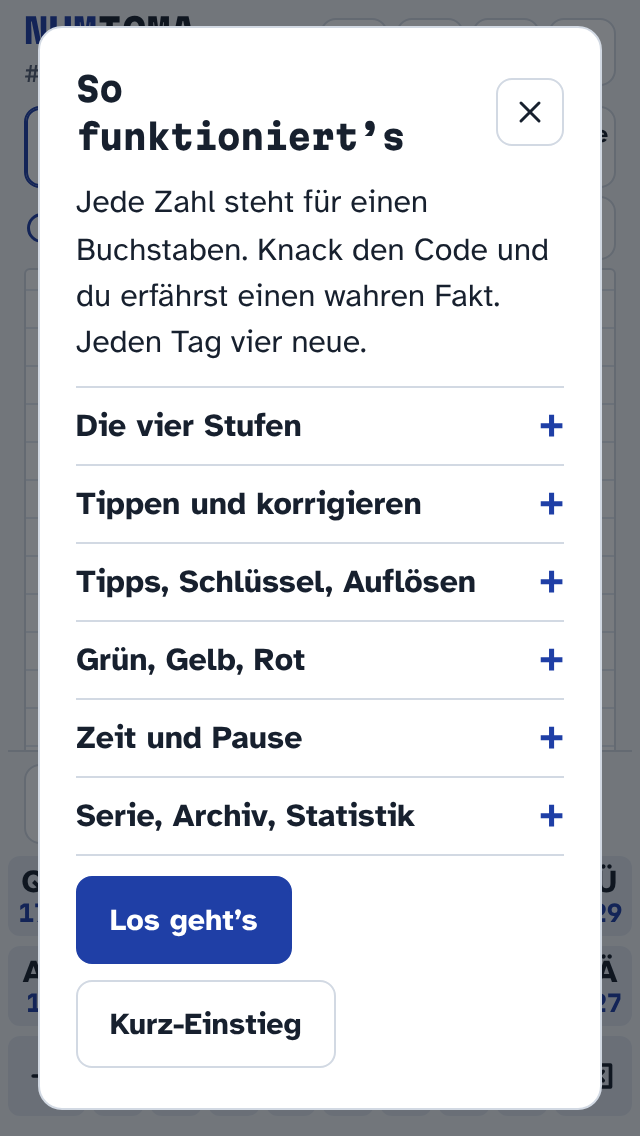
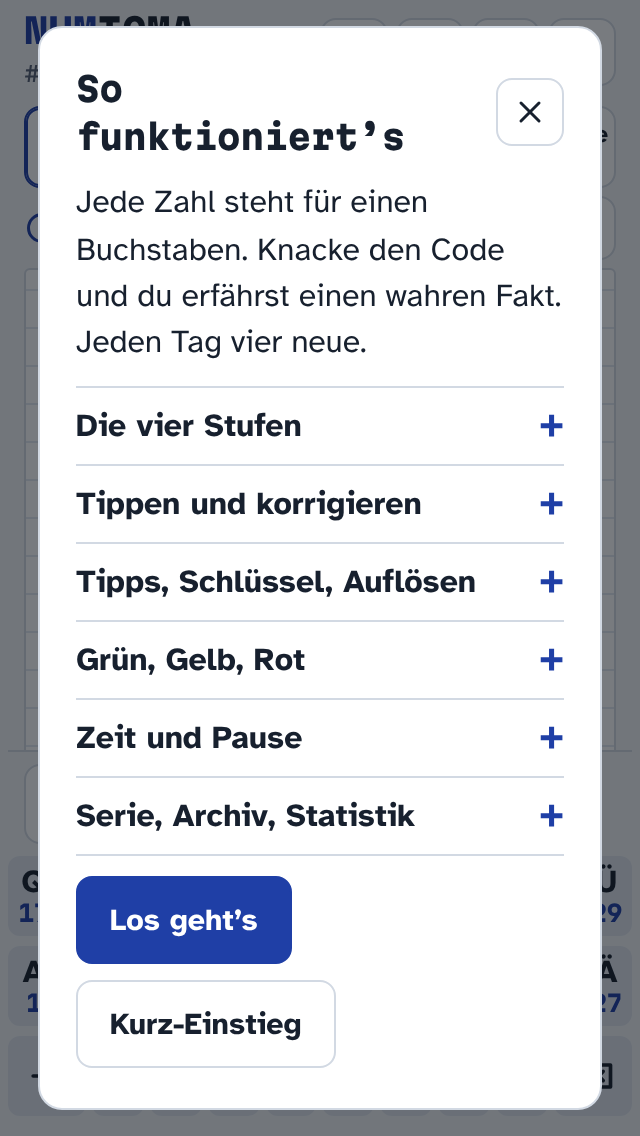
Deutscher Slogan „Knacke den Code. Entdecke den Fakt.“ (#6)
Wunsch von Ervin: die vollen Befehlsformen. Geändert im Vorschaubild (og-de.png, Adresse ?v=2,
damit WhatsApp das neue Bild lädt), Alt-Text, Linkvorschau, Kurz-Einstieg und Anleitung.
Englisch unverändert. Entscheidungen zur zweiten Rückmeldungsrunde in _dev/KONZEPTE.md.

Claude-Session: https://claude.ai/code/session_01UizJ3MfA2PHDqjVNM3Cj6o

Changed region(s): [[0.125, 0.1849, 0.875, 0.2773]]

diff --git a/index.html b/index.html
@@ -5,18 +5,19 @@
 <meta name="viewport" content="width=device-width, initial-scale=1, viewport-fit=cover">
 <title>NUMIGMA · Crack the code. Reveal the fact.</title>
 <!-- Linkvorschau (WhatsApp & Co.): Wer den Link bekommt, weiß sonst nicht, was ihn erwartet. Deshalb auf Deutsch, klar und mit „kostenlos“.
-     Bild og-de.png mit deutschem Slogan. Englische Links (/en/) haben eine eigene Vorschau mit og-en.png. Neue Bildnamen, weil WhatsApp Bilder zwischenspeichert. -->
-<meta name="description" content="Das tägliche Zahlenrätsel: Jede Zahl ist ein Buchstabe. Knack den Code, dahinter steckt ein wahrer Fakt. Kostenlos, ohne Anmeldung, ohne Werbung.">
+     Bild og-de.png mit deutschem Slogan. Englische Links (/en/) haben eine eigene Vorschau mit og-en.png. Neue Bildnamen, weil WhatsApp Bilder zwischenspeichert;
+     ändert sich ein Bild, ?v= erhöhen (seit 27.10.2026 v=2: „Knacke den Code. Entdecke den Fakt.“). -->
+<meta name="description" content="Das tägliche Zahlenrätsel: Jede Zahl ist ein Buchstabe. Knacke den Code, dahinter steckt ein wahrer Fakt. Kostenlos, ohne Anmeldung, ohne Werbung.">
 <meta property="og:site_name" content="NUMIGMA">
 <meta property="og:title" content="NUMIGMA · Das tägliche Zahlenrätsel">
-<meta property="og:description" content="Jede Zahl ist ein Buchstabe. Knack den Code, dahinter steckt ein wahrer Fakt. Kostenlos, ohne Anmeldung, ohne Werbung.">
+<meta property="og:description" content="Jede Zahl ist ein Buchstabe. Knacke den Code, dahinter steckt ein wahrer Fakt. Kostenlos, ohne Anmeldung, ohne Werbung.">
 <meta property="og:locale" content="de_AT">
 <meta property="og:type" content="website">
 <meta property="og:url" content="https://gr3hab.github.io/numfact/">
-<meta property="og:image" content="https://gr3hab.github.io/numfact/og-de.png">
+<meta property="og:image" content="https://gr3hab.github.io/numfact/og-de.png?v=2">
 <meta property="og:image:width" content="1200">
 <meta property="og:image:height" content="630">
-<meta property="og:image:alt" content="NUMIGMA: Knack den Code. Entdeck den Fakt.">
+<meta property="og:image:alt" content="NUMIGMA: Knacke den Code. Entdecke den Fakt.">
 <meta name="twitter:card" content="summary_large_image">
 <meta name="theme-color" content="#f2f4f7" media="(prefers-color-scheme: light)">
 <meta name="theme-color" content="#111715" media="(prefers-color-scheme: dark)">
@@ -639,14 +640,14 @@ const STR = {
     shareDlg: { title: 'Ergebnis teilen', note: 'Automatisches Kopieren klappt hier nicht. Der Text ist markiert, du kannst ihn selbst kopieren.', done: 'Fertig' },
     intro: {
       eyebrow: 'Das tägliche Zahlenrätsel', free: 'Kostenlos, ohne Anmeldung, ohne Werbung.',
-      title: 'Knack den Code', lead: 'Jede Zahl ist ein Buchstabe: A = 1, B = 2, C\u00a0=\u00a03\u00a0…',
+      title: 'Knacke den Code', lead: 'Jede Zahl ist ein Buchstabe: A = 1, B = 2, C\u00a0=\u00a03\u00a0…',
       task: 'Probier es aus: Welches Wort ist das? Die kleinen Zahlen auf den Tasten helfen dir.', word: 'EIS', keys: [...'AEHIRS'], wrong: c => `Gesucht ist die ${c}. Schau auf die kleinen Zahlen.`,
       won: 'Geknackt! Genau so geht’s.', wonMore: 'Jeden Tag gibt es vier neue Codes, von Easy bis Impossible. Hinter jedem steckt ein kurzer, wahrer Fakt.',
       go: 'Zum Rätsel von heute', goTo: n => `Zum Rätsel #${n}`, skip: 'Überspringen', rules: 'Alle Regeln', aria: n => `Übungs-Code ${n}`
     },
     help: {
       title: 'So funktioniert’s',
-      lead: 'Jede Zahl steht für einen Buchstaben. Knack den Code und du erfährst einen wahren Fakt. Jeden Tag vier neue.',
+      lead: 'Jede Zahl steht für einen Buchstaben. Knacke den Code und du erfährst einen wahren Fakt. Jeden Tag vier neue.',
       sections: [
         ['Die vier Stufen', '<ul><li><strong>Easy:</strong> A&nbsp;=&nbsp;1 … Z&nbsp;=&nbsp;26. Jede Zahl hat ihr eigenes Kästchen.</li><li><strong>Hard:</strong> dieselben Zahlen, aber ohne Trennung. 1 1 kann K sein oder AA.</li><li><strong>Mirror:</strong> rückwärts, A&nbsp;=&nbsp;26 … Z&nbsp;=&nbsp;1, ohne Trennung.</li><li><strong>Impossible:</strong> Das Alphabet ist um eine geheime Zahl verschoben, ohne Trennung.</li></ul><p>Die Kästchen verraten immer, wie viele Buchstaben ein Wort hat. Ä&nbsp;=&nbsp;27, Ö&nbsp;=&nbsp;28, Ü&nbsp;=&nbsp;29, ß&nbsp;=&nbsp;30, in jeder Stufe gleich. Du kannst auch ae, oe, ue oder ss tippen.</p>'],
         ['Tippen und korrigieren', '<p>Tippe ein Kästchen an und schreibe mit der Tastatur. Jedes Kästchen lässt sich einzeln überschreiben. Ein volles, aber falsches Wort wird rot und gestrichelt umrandet. Richtige Wörter werden grün markiert. Der Pfeil springt zum nächsten Wort.</p><p>Am Computer: Buchstaben tippen, Pfeiltasten, Enter für das nächste Wort, Rücktaste.</p>'],

diff --git a/_dev/tests/spiel.test.js b/_dev/tests/spiel.test.js
@@ -110,9 +110,9 @@ test('Linkvorschau: Deutsch sagt klar, was das ist und dass es kostenlos ist; je
   assert.equal(meta('en/index.html', 'og:locale'), 'en_GB');
   // Jede Sprache hat ihr eigenes Bild (deutscher bzw. englischer Slogan), beide 1200×630 und tatsächlich vorhanden
   const base = 'https://gr3hab.github.io/numfact/';
-  assert.equal(meta('index.html', 'og:image'), base + 'og-de.png');
+  assert.equal(meta('index.html', 'og:image'), base + 'og-de.png?v=2');   // ?v= erhöhen, wenn sich das Bild ändert
   assert.equal(meta('en/index.html', 'og:image'), base + 'og-en.png');
-  assert.equal(meta('index.html', 'og:image:alt'), 'NUMIGMA: Knack den Code. Entdeck den Fakt.');
+  assert.equal(meta('index.html', 'og:image:alt'), 'NUMIGMA: Knacke den Code. Entdecke den Fakt.');
   assert.equal(meta('en/index.html', 'og:image:alt'), 'NUMIGMA: Crack the code. Reveal the fact.');
   for (const f of ['og-de.png', 'og-en.png']) {
     const png = fs.readFileSync(path.join(root, f));

diff --git a/_dev/grafik/og.html b/_dev/grafik/og.html
@@ -24,6 +24,6 @@ body{width:1200px;height:630px;box-sizing:border-box;padding:0 60px;background:#
 </div>
 <div class="tag" id="tag"><span>CRACK THE CODE.</span><span><em>REVEAL THE FACT.</em></span></div>
 <script>
-  if (/[?&]lang=de\b/.test(location.search)) document.getElementById('tag').innerHTML = '<span>KNACK DEN CODE.</span><span><em>ENTDECK DEN FAKT.</em></span>';
+  if (/[?&]lang=de\b/.test(location.search)) document.getElementById('tag').innerHTML = '<span>KNACKE DEN CODE.</span><span><em>ENTDECKE DEN FAKT.</em></span>';
 </script>
 </body></html>

diff --git a/sw.js b/sw.js
@@ -2,7 +2,7 @@
    Immer zuerst das Netz fragen (so kommen neue Rätsel und Korrekturen sofort an).
    Nur wenn keine Verbindung da ist, wird die zuletzt geladene Fassung aus dem Zwischenspeicher genommen.
    Die Rätsel werden im Browser berechnet, deshalb funktioniert auch ein neuer Tag offline. */
-const CACHE = 'numigma-v12';
+const CACHE = 'numigma-v13';
 const CORE = [
   './', 'index.html', 'kern.js?v=9', 'fakten.js?v=9', 'manifest.webmanifest', 'en/',
   'icon.png', 'icon-192.png',

diff --git a/_dev/KONZEPTE.md b/_dev/KONZEPTE.md
@@ -46,6 +46,9 @@ Die Prüfseite mit allen Lösungen liegt jetzt in `_dev/` und wird nicht mehr ve
   - Umgesetzt: Bei gelösten und aufgelösten Wörtern verschwinden die Zahlen, das Wort steht mittig im grünen Feld (gleiche Größe, nichts verrutscht). Wer die Seite vom Vortag wieder öffnet, landet direkt beim neuen Rätsel (nicht mitten in einem angefangenen Rätsel und nicht im Archiv). Der Archiv-Knopf heißt „Zum heutigen Rätsel“. Die Einstellungen erklären „System“. Impossible ermuntert dazu, Buchstaben in den Kästchen auszuprobieren.
   - Nicht umgesetzt: **Rätsel wiederholen** (nach dem Lösen kennt man die Lösung; zum Nachspielen gibt es das Archiv). **Notizfeld bei Impossible** (die Kästchen sind der Notizblock und lassen sich beliebig überschreiben; ein Feld für freien Text würde am Handy die Systemtastatur über das Spiel legen, ein Verschiebungs-Rechner würde Impossible trivial machen). **Werbung** (widerspricht dem Versprechen „ohne Werbung, ohne Tracking“ in Vorschau und Einstellungen, braucht in der EU in der Regel eine Einwilligung, und GitHub Pages ist laut GitHub nicht als kostenloses Hosting für ein Online-Geschäft gedacht).
   - Offen: Easy-Zahlen standardmäßig aus? Weniger Wörter bei Easy ab #17 (heute meist 6 bis 8, an 19 der ersten 110 Tage 9 bis 11)?
+- **Zweite Rückmeldungsrunde (27. Oktober 2026):**
+  - Umgesetzt: deutscher Slogan „Knacke den Code. Entdecke den Fakt.“ (Vorschaubild, Kurz-Einstieg, Anleitung, Linkvorschau). Akquise-Plan als eigenes Dokument (Kanal, Reddit, lokal), ohne Änderung am Spiel.
+  - Nicht umgesetzt: **Umlaute bei Mirror spiegeln** (Ä = 27, Ö = 28, Ü = 29, ß = 30 gelten bewusst in jeder Stufe gleich; eine Änderung ginge nur für künftige Tage, dann gälten je nach Tag zwei Regeln). **Strafzeit ab dem vierten Fehler** (zählbar wären nur ganze falsche Wörter; trifft vor allem Tippfehler bei Easy und das gewollte Ausprobieren bei Impossible; nach dem Test mit zehn Personen neu bewerten). **Notizen bei Mirror und Impossible** (zweiter Wunsch danach; ein Notizfeld legt am Handy die Systemtastatur über das Spiel; bauen, wenn beim Test mehrere es von selbst vermissen). **Zähler für Besuche** (braucht eine Änderung des Satzes „kein Tracking“; Entscheidung von Christian und Ervin, bis dahin Handzählung laut Akquise-Plan).
 - **Englische Tage #1–#16:** Die Zuordnung von Fakt zu Stufe weicht an sechs dieser Tage zwischen Deutsch und Englisch ab, weil sie so veröffentlicht wurde. Ab #17 ist sie in beiden Sprachen gleich.
 - **Name des Repositorys:** Die Adresse lautet weiter `…/numfact/`. Eine Umbenennung in `numigma` würde alle bisherigen Links brechen (GitHub leitet Pages-Adressen nicht weiter).
 - **Zahlen 0–9 für Jahreszahlen:** Würde neue Rätselarten ermöglichen, ändert aber die Regeln aller Stufen. Nicht umgesetzt.

diff --git a/README.md b/README.md
@@ -29,7 +29,7 @@ GitHub Pages veröffentlicht Ordner, die mit `_` beginnen, nicht. Die Prüfseite
 - `…/numfact/?n=4&m=easy` öffnet #4, Stufe Easy. `m` ist `easy`, `hard`, `mirror` oder `impossible`.
 - `…/numfact/en/?n=4&m=easy` dasselbe auf Englisch. `?lang=en` funktioniert weiterhin.
 - Ein Link auf ein Rätsel, das in der eigenen Zeitzone noch nicht erschienen ist, öffnet das heutige Rätsel mit einem Hinweis, wann es erscheint.
-- Die Linkvorschau (WhatsApp & Co.) sagt auf Deutsch, was NUMIGMA ist und dass es kostenlos ist, ohne Anmeldung und ohne Werbung. Das Bild `og-de.png` hat den deutschen Slogan „Knack den Code. Entdeck den Fakt.“ `en/` hat eine eigene englische Vorschau mit `og-en.png`.
+- Die Linkvorschau (WhatsApp & Co.) sagt auf Deutsch, was NUMIGMA ist und dass es kostenlos ist, ohne Anmeldung und ohne Werbung. Das Bild `og-de.png` hat den deutschen Slogan „Knacke den Code. Entdecke den Fakt.“ `en/` hat eine eigene englische Vorschau mit `og-en.png`.
 
 ## Regeln für die Uhr
 
